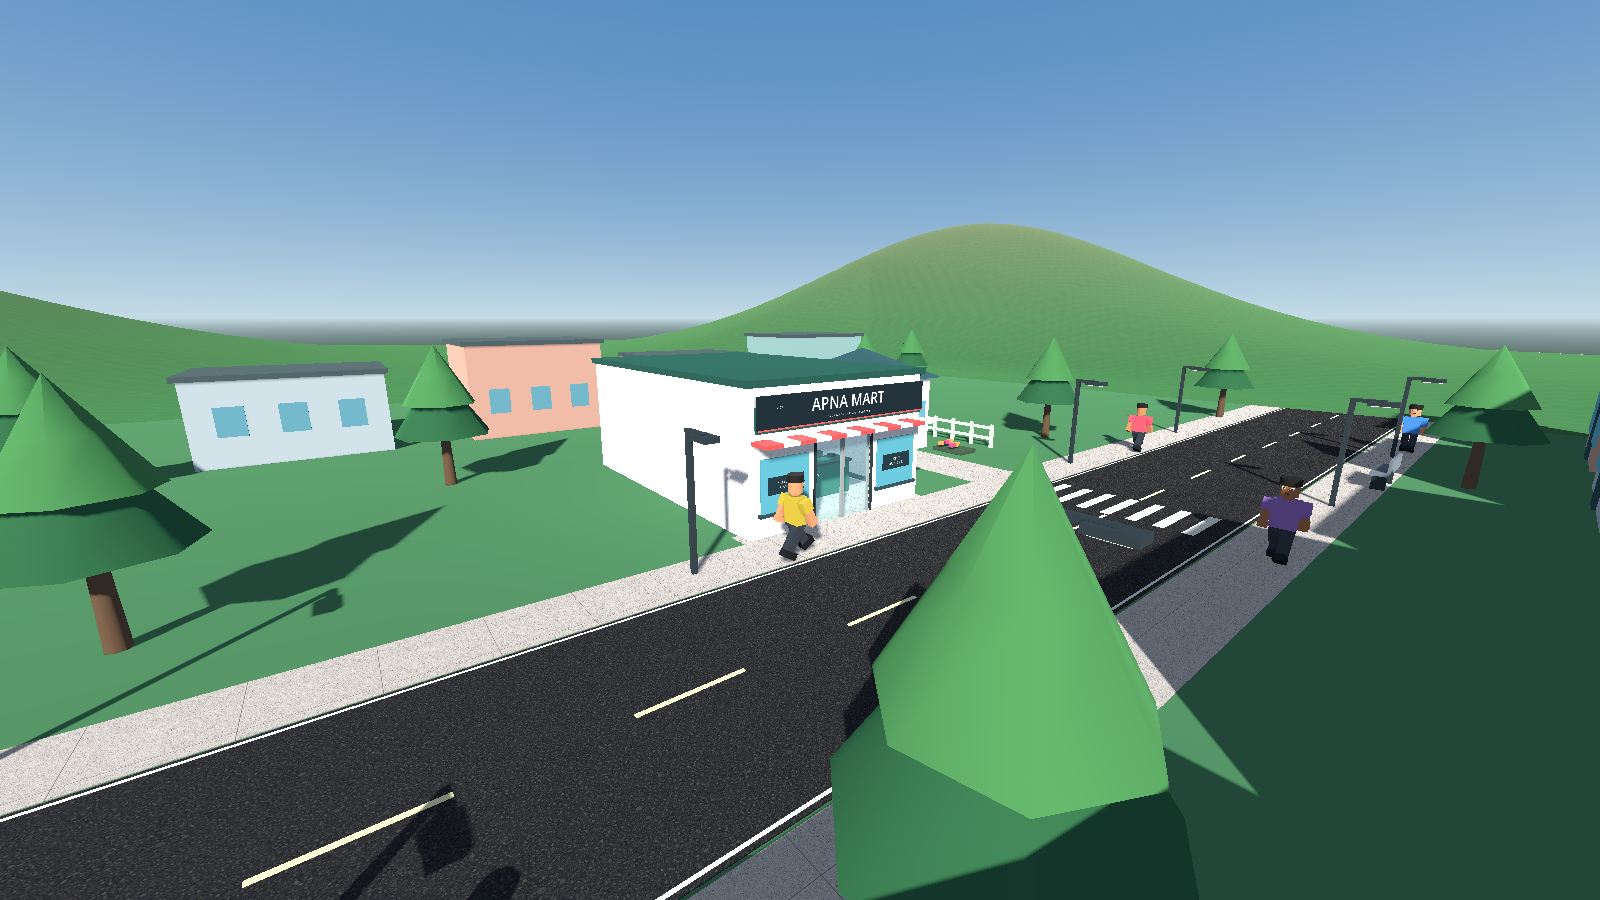
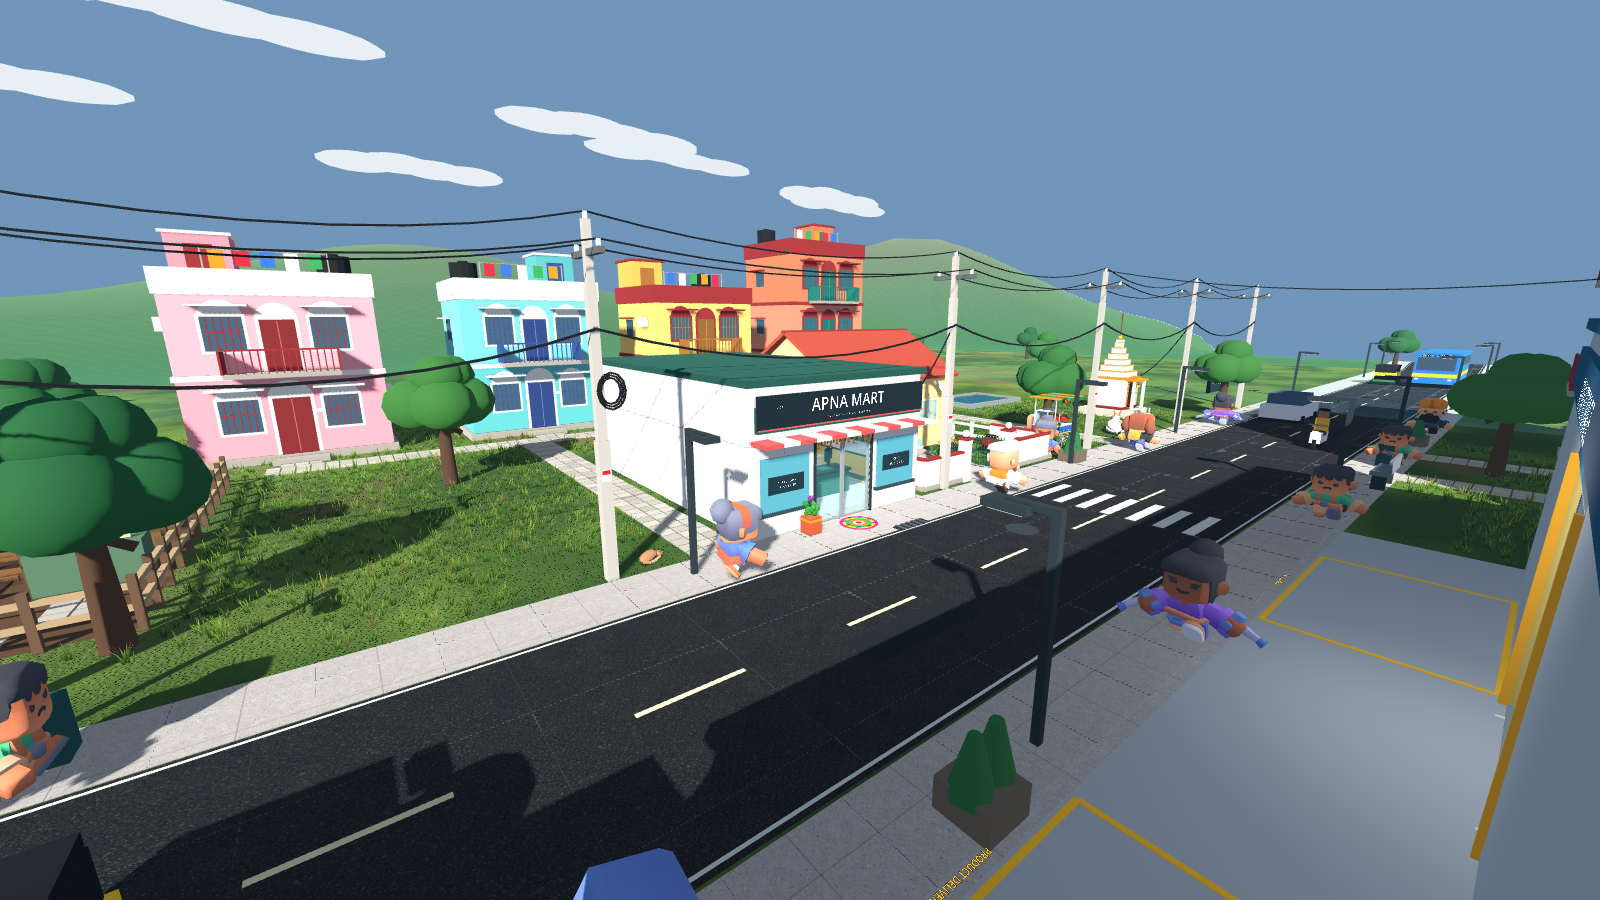
Update project memory and export presets for Demo v0.8 release; enhance main menu versioning and what's new details.

diff --git a/PROJECT_MEMORY.md b/PROJECT_MEMORY.md
@@ -1,6 +1,6 @@
 # LifeBusinessGame - Project Memory and AI Handoff
 
-Last updated: 2026-10-15 (Asia/Calcutta).
+Last updated: 2026-10-19 (Asia/Calcutta). Latest build: Demo v0.8 (Indian town, co-op).
 Current status: playable development prototype, not a release-ready demo.
 Latest demo usability feature: a compact First Day guide appears below the clock
 and points to the next unfinished retail objective. It hides while a tablet or
@@ -13,6 +13,23 @@ baskets, tablet purchasing and mixed-product stocking. See Produce Tables below.
 Latest feature: playable tomato farming, a Farm tablet tab/seed stall, three farm
 expansions, tomato warehouse/shelf/checkout integration, a road-end Coming Next
 board and a local suggestion form. See Farming section below for controls and limits.
+
+## Demo v0.8: Indian Town, Co-op, Graphics Settings (2026-10-19)
+
+- Build: `build/LifeBusinessGame_Demo_v0.8.zip` (44 MB, same layout as v0.7: exe, pck,
+  libterrain release DLL, READ ME with a co-op section). Version v0.8 in the lobby and
+  the exe (export_presets 0.8.0.0); `editor_preview/*` is excluded from the export.
+- Exporting while the Godot editor is open prints "Can't open GDExtension" for
+  Terrain3D (the editor locks the debug DLL). The pack is still correct: an export
+  from an unlocked project copy produced a byte-identical .pck.
+- Lobby background (assets/ui/main_menu_shop_v2.png) recaptured with
+  tests/menu_background_capture.gd `-- --polished`, now on High graphics.
+- In this release, committed by the owner as 53999fe and earlier: the Indian town
+  (indian_house.gd, indian_street.gd), Indian music (tools/make_audio.gd), blade grass
+  and the ground shader, block_path.gd paths, the home yard, lamps on Low, the road
+  horizon (horizon.gd), the editor preview, graphics presets and day length
+  (game_settings.gd, settings_menu.gd), and co-op (coop.gd, coop_world.gd,
+  remote_backend.gd, coop_menu.gd; tests/coop_test.gd runs 2 processes).
 
 ## Full-Screen PC, APNA OS Desktop, Staff Page, Checkout Click Fix (2026-10-18)
 
